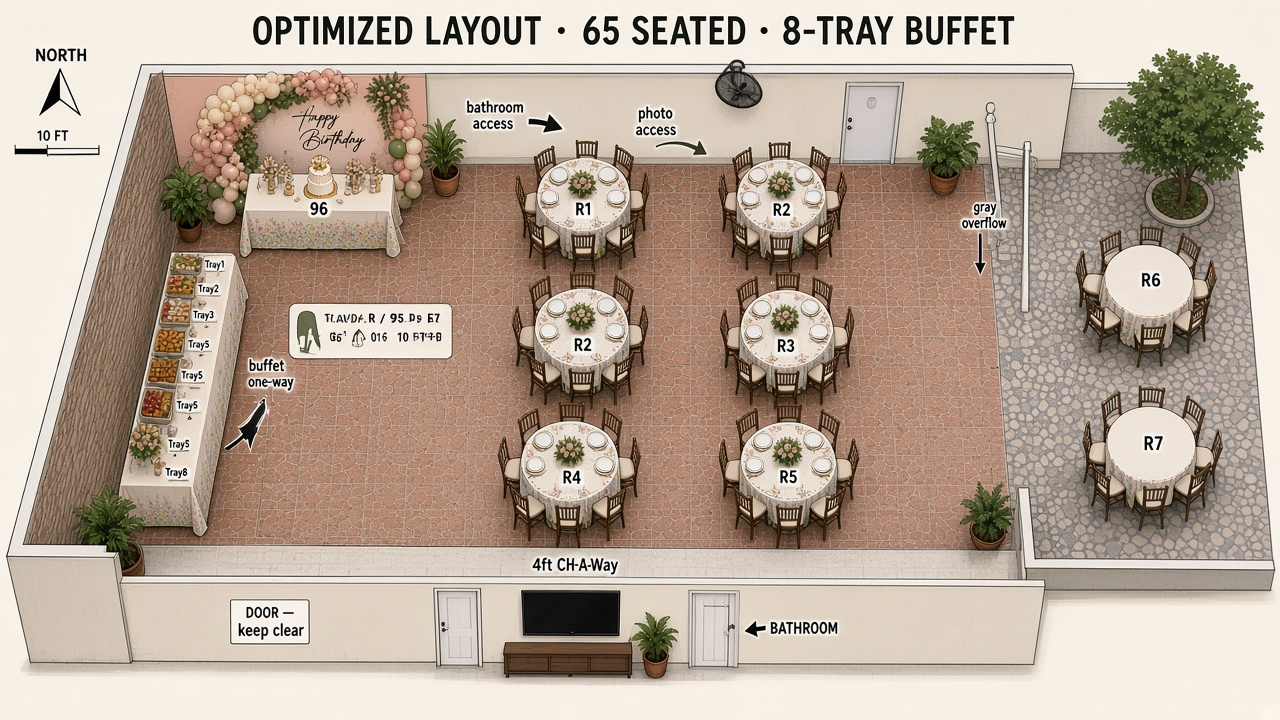
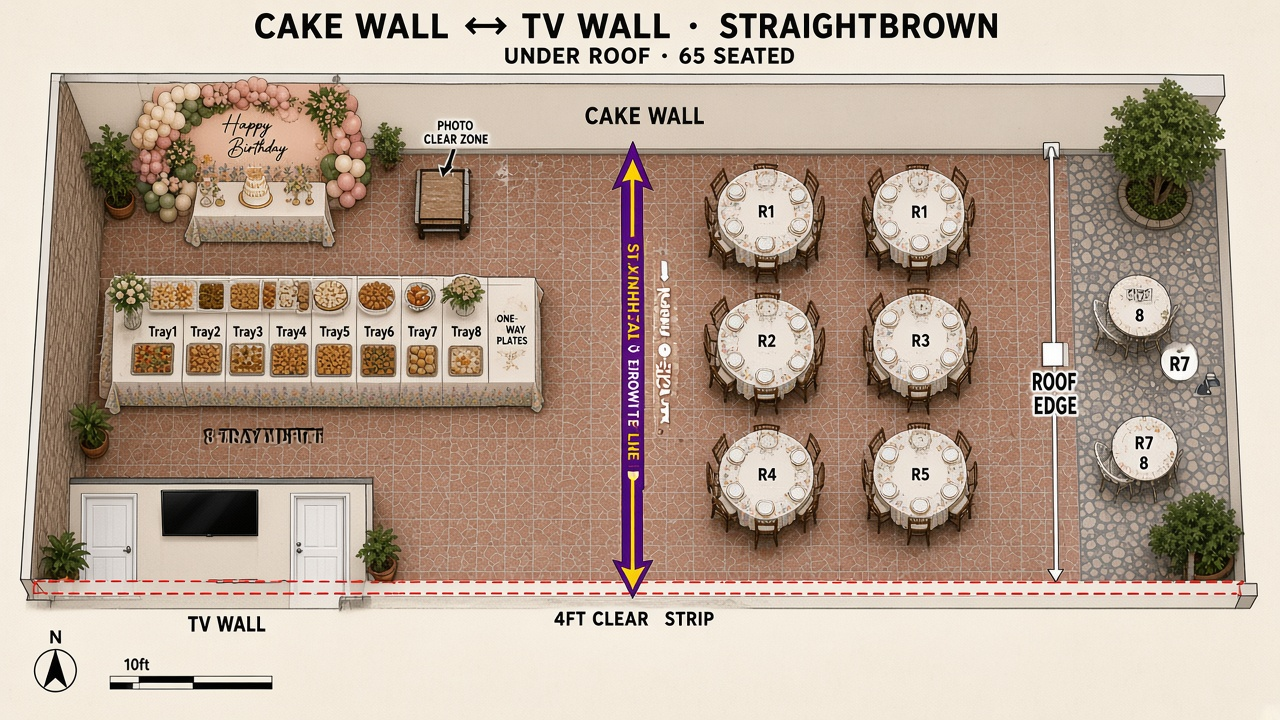
Show cake and TV walls on one straight brown axis
Clarify that the cake wall and TV wall face each other across
a continuous brown-tile run under the roof, with gray only
outside past the pole.

diff --git a/birthday-party-plan/index.html b/birthday-party-plan/index.html
@@ -54,21 +54,22 @@
     <p class="eyebrow">Space &amp; function · 65 guests · 8-tray buffet</p>
     <h1>Optimized table layout for <em>grandma’s 96th</em></h1>
     <p class="lede">
-      Cake/photo on the far white wall; <strong>TV wall opposite</strong> with the <strong>bathroom door beside the TV</strong>
-      kept clear; buffet for <strong>8 trays</strong> on the stone wall; rounds packed with a center aisle for bath, food, and photos.
+      Cake/photo on the far white wall; <strong>TV wall opposite on the same straight brown-tile run</strong>
+      with the <strong>bathroom door beside the TV</strong> kept clear; buffet for <strong>8 trays</strong> on the stone wall;
+      rounds packed with a center aisle along the cake↔TV axis.
     </p>
     <div class="meta">
+      <span class="chip"><strong>Axis</strong> cake ↔ TV · straight brown</span>
       <span class="chip"><strong>65</strong> seated</span>
       <span class="chip"><strong>Buffet</strong> 8 trays · one-way</span>
       <span class="chip"><strong>Bath</strong> 4′ clear at TV wall</span>
-      <span class="chip"><strong>Photo</strong> cake wall clear</span>
     </div>
   </header>
 
   <main>
     <div class="plan-card">
       <img src="./assets/patio-floor-plan-65.png" alt="Optimized floor plan for 65 seats with 8-tray buffet and bathroom clear at TV wall" />
-      <p class="caption">Optimized plan — bathroom corridor at TV end, 8-tray buffet on stone wall, photo at cake wall, R1–R5 under roof + R6–R7 by the tree.</p>
+      <p class="caption">Cake wall and TV wall face each other across one straight brown-tile rectangle under the roof; gray only right of the pole.</p>
     </div>
 
     <div class="plan-card">

diff --git a/birthday-party-plan/README.md b/birthday-party-plan/README.md
@@ -2,14 +2,14 @@
 
 Geometry matches the correct patio photo. This plan adds **function**: bathroom at the TV end, **8-tray buffet**, photo zone at the cake wall.
 
-## Ends of the patio
+## Ends of the patio (facing each other)
 
 | End | What’s there | Rule |
 |-----|----------------|------|
-| **Cake wall** (far white wall) | Backdrop, balloons, cake | Clear stand space for photos with grandma |
-| **TV wall** (opposite cake) | TV + **bathroom door** beside TV | **4′ clear corridor** — no tables against that wall |
+| **Cake wall** | Backdrop, balloons, cake | Clear stand space for photos with grandma |
+| **TV wall** (opposite, same brown-tile axis) | TV + **bathroom door** beside TV | **4′ clear corridor** — no tables against that wall |
 
-Stone wall runs along one long side; roof edge + pole on the other; **gray tiles only outside** the roof (tree side).
+These two walls face each other in a **straight line of brown tiling under one roof**. Gray tiles are only outside the roof, beside that strip (pole on the roof edge).
 
 ## Optimized seating (65)
 
